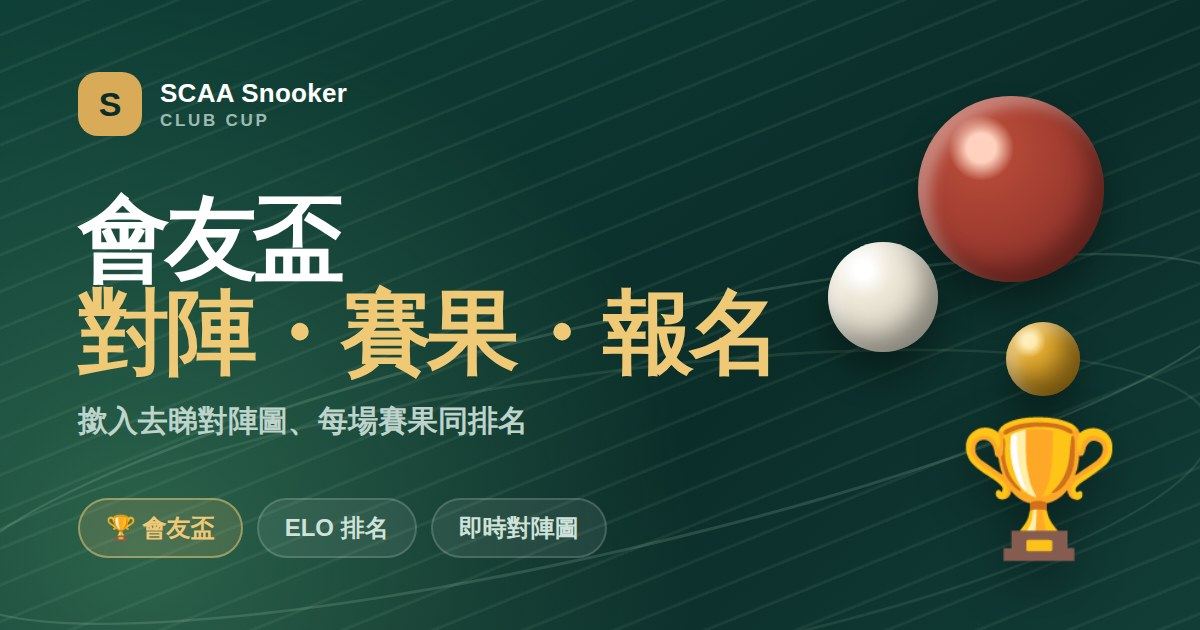
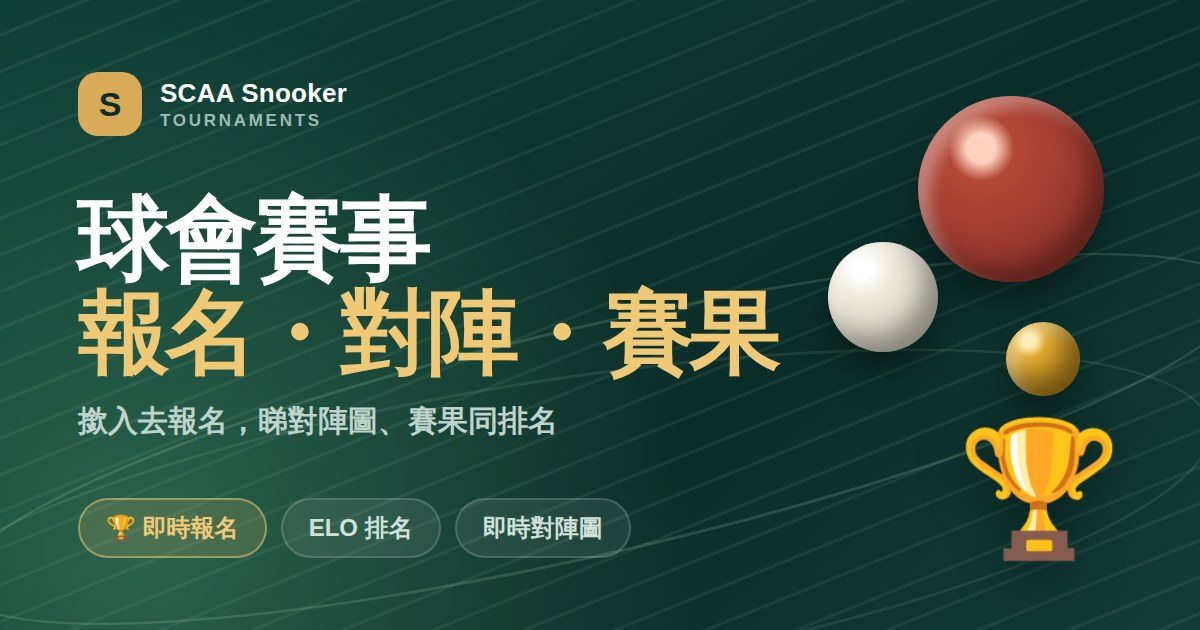
Cup share: generic thumbnail wording, and a CTA that asks for the entry
The thumbnail said 會友盃 — the name of one particular competition — but it is
the preview for every cup the club ever posts, including any that is not a
會友盃. It now reads 球會賽事 · 報名・對陣・賽果, with the eyebrow and chips
following, so the same image is honest whatever the cup is called. The og:image
alt matches.

The recruiting message's call to action becomes 「立即報名參加比賽 👇」 — the one
thing that share exists to get — replacing the softer 「上去報名，一齊爭盃」. It
stays the last line before the link, which a test now pins alongside the rule
that the bare URL ends the message.

Claude-Session: https://claude.ai/code/session_01MdBhF68JTZoL6Q6VtguHJ8

diff --git a/app/c/[id]/page.tsx b/app/c/[id]/page.tsx
@@ -59,7 +59,7 @@ export async function generateMetadata({params}:{params:Promise<{id:string}>}):P
     /* WhatsApp reads Open Graph and nothing else; Telegram and iMessage follow the same tags, and the
        Twitter card keeps a summary_large_image rather than falling back to a bare link. */
     openGraph:{title,description,url,type:"website",siteName:"SCAA Snooker",locale:"zh_HK",
-      images:[{url:image,width:1200,height:630,alt:"SCAA 會友盃"}]},
+      images:[{url:image,width:1200,height:630,alt:"SCAA Snooker 球會賽事"}]},
     twitter:{card:"summary_large_image",title,description,images:[image]},
     alternates:url?{canonical:url}:undefined,
   };

diff --git a/lib/cup-share.ts b/lib/cup-share.ts
@@ -68,7 +68,7 @@ export function cupShareMessage(name:string,state:CupShareState,url:string):stri
     ?[`🏆 ${name} 開始報名喇`,
       state.openPlaces>0?`仲有 ${state.openPlaces} 個位 · 已有 ${state.entrants} 人報名`:`已有 ${state.entrants} 人報名`,
       `${state.deadline} 截止，截止後即刻抽籤。`,
-      "上去報名，一齊爭盃 👇"]
+      "立即報名參加比賽 👇"]
     :state.status==="done"
     ?[`🏆 ${name} 完滿結束`,`冠軍：${state.championName}`,"完整對陣圖同賽果喺呢度 👇"]
     :state.status==="short"
